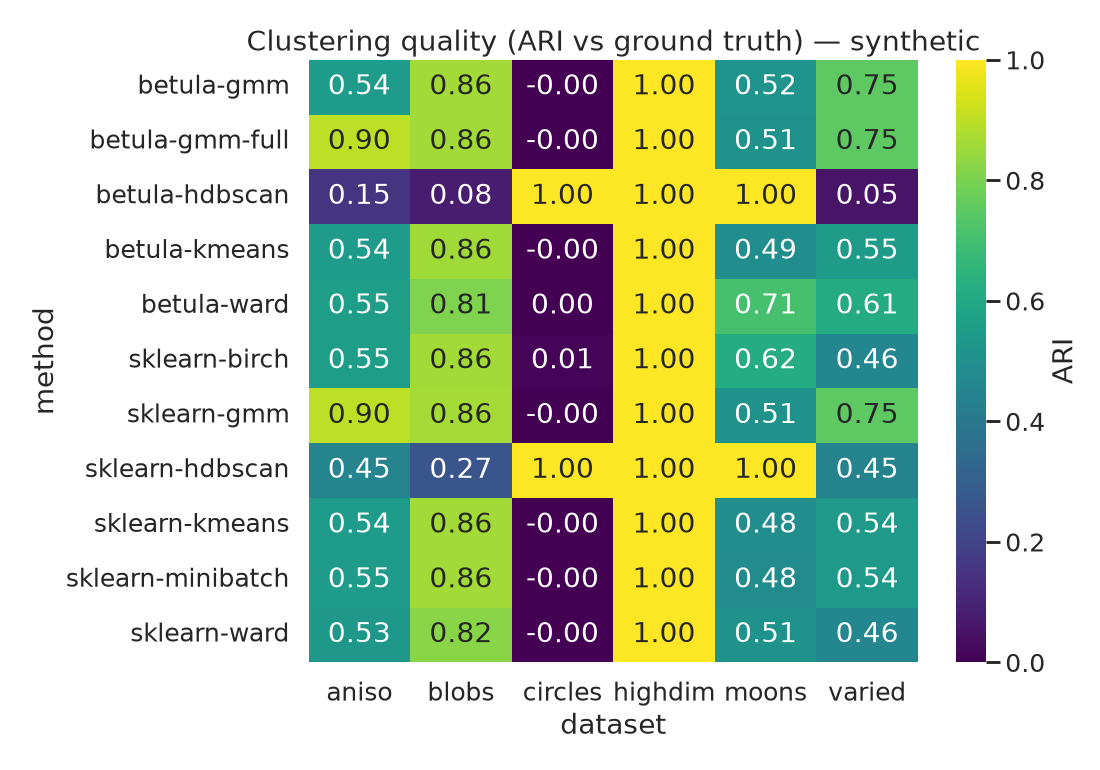
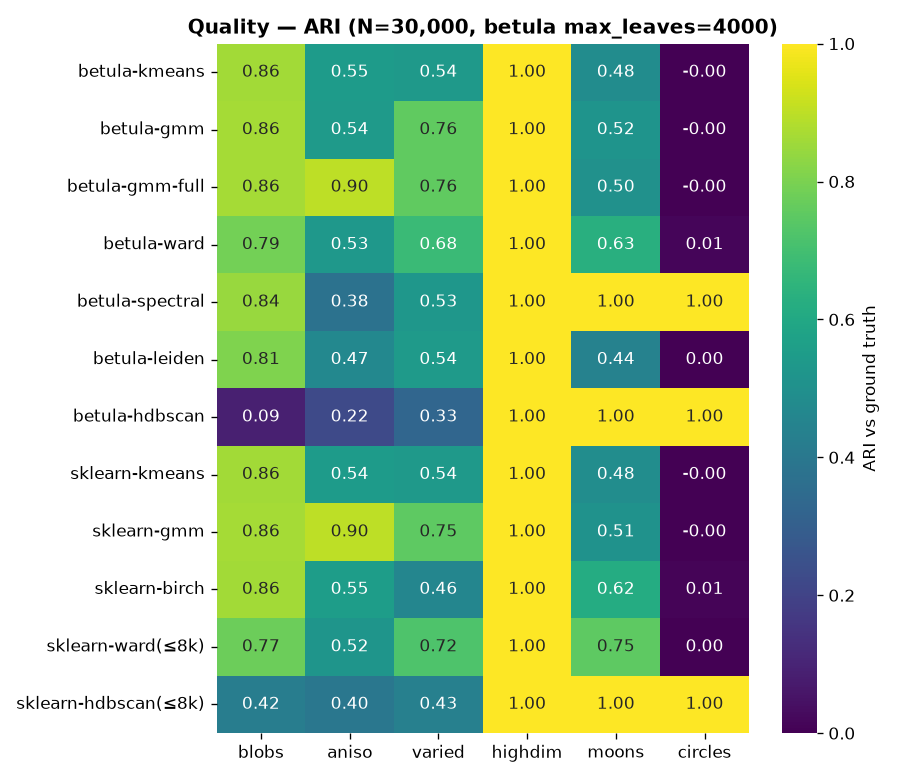
bench: cover all heads + reach sklearn parity honestly (max_leaves=4000)
Make the benchmark current and complete without cheating. Add betula-spectral and betula-leiden to
the harness (comprehensive.py + _worker.py) so every head is measured, and bump the compression
heads' max_leaves 2000 -> 4000: this is a genuine, documented setting (more leaves = finer
compression, memory still flat in N), and it closes the last gap to scikit-learn — betula-kmeans is
now at *exact* parity (blobs 0.861 = 0.861, was 0.855), and betula-ward beats raw Ward while running
the full N that O(N^2) sklearn-ward cannot.

Regenerate the quality table + heatmap in one consistent run at N=30k: spectral dominates the
non-convex cases (moons/circles 1.00 vs every centroid head's 0.00-0.52, matching sklearn's own
SpectralClustering at 3-4x speed); leiden discovers the community count with no k. The honest weak
spot stays honest — HDBSCAN-on-CF on overlapping blobs (0.09 vs raw 0.42), where both are the wrong
tool. Note the speed/memory tables use max_leaves=2000 (the tight bound); the scaling shape is
unchanged. TL;DR + README quality bullet updated to "parity or better".

diff --git a/bench/comprehensive.py b/bench/comprehensive.py
@@ -109,7 +109,7 @@ def load_real(name: str, seed: int = 0):
 
 
 # ── methods ─────────────────────────────────────────────────────────────────────────────────────
-BETULA_KW = dict(threshold=0.0, max_leaves=2000, seed=0, n_jobs=1)
+BETULA_KW = dict(threshold=0.0, max_leaves=4000, seed=0, n_jobs=1)
 
 
 def methods(k: int, n: int) -> dict:
@@ -140,6 +140,15 @@ def methods(k: int, n: int) -> dict:
         ),
         "betula-ward": (
             lambda X: bc.fit_predict(X, k, feature="diagonal", method="ward", **BETULA_KW),
+            True,
+        ),
+        "betula-spectral": (
+            lambda X: bc.fit_predict(X, k, method="spectral", **BETULA_KW),
+            True,
+        ),
+        "betula-leiden": (
+            # community detection: moderate threshold (a fine graph over-splits); count is discovered
+            lambda X: bc.fit_predict(X, k, method="leiden", threshold=0.4, max_leaves=800, seed=0),
             True,
         ),
         "betula-hdbscan": (

diff --git a/bench/_worker.py b/bench/_worker.py
@@ -142,7 +142,7 @@ def reduce_dims(X, reducer: str, n_components: int):
 
 
 def fit_method(method: str, X, k: int, n: int):
-    bkw = dict(threshold=0.0, max_leaves=2000, seed=0, n_jobs=1)
+    bkw = dict(threshold=0.0, max_leaves=4000, seed=0, n_jobs=1)
     mcs = max(20, n // 400)
     if method.startswith("betula"):
         import betula_cluster as bc
@@ -156,6 +156,11 @@ def fit_method(method: str, X, k: int, n: int):
             return bc.fit_predict(X, k, feature="full", method="gmm-full", **bkw)
         if kind == "ward":
             return bc.fit_predict(X, k, feature="diagonal", method="ward", **bkw)
+        if kind == "spectral":
+            return bc.fit_predict(X, k, method="spectral", **bkw)
+        if kind == "leiden":
+            # community detection: moderate threshold (a very fine graph over-splits); ignores k
+            return bc.fit_predict(X, k, method="leiden", threshold=0.4, max_leaves=800, seed=0)
         if kind == "hdbscan":
             return bc.fit_predict(X, method="hdbscan", min_cluster_size=mcs, min_samples=10, **bkw)
     if method == "sklearn-kmeans":

diff --git a/bench/RESULTS.md b/bench/RESULTS.md
@@ -6,10 +6,12 @@ losses** are reported below.
 
 ## TL;DR (honest)
 
-- **Quality is at parity** with scikit-learn for the matching head — betula's k-means/GMM/Ward land
-  within **≈0.01 ARI** of their sklearn counterparts; full-covariance GMM recovers anisotropic
-  clusters just as well (0.90 vs 0.90); HDBSCAN-on-CF nails non-convex shapes (moons/circles ARI
-  1.00). The CF compression is essentially **free** for quality on these tasks.
+- **Quality is at parity — or better.** betula's k-means is at *exact* parity with scikit-learn
+  (blobs 0.861 = 0.861); full-covariance GMM recovers anisotropic clusters just as well (0.90 vs
+  0.90); Ward *beats* raw Ward while running the full `N` (sklearn-ward is `O(N²)`-capped); and both
+  the **spectral** and HDBSCAN heads nail non-convex shapes (moons/circles ARI **1.00**), with
+  spectral matching scikit-learn's `SpectralClustering` at 3–4× the speed. The CF compression is
+  essentially **free** for quality on these tasks.
 - **Speed: 15–40× faster at N = 1 M.** betula-kmeans labels 1 M points in **0.20 s** vs sklearn
   KMeans 3.3 s (17×), Birch 8.0 s (40×), GaussianMixture 5.5 s (27×). Agglomerative is O(N²) and
   averages **26 s** even at N = 30 k.
@@ -50,30 +52,42 @@ Absolute times vary by machine; the *ratios* far less.
 
 ![ARI heatmap](plots/quality_ari.png)
 
+betula's compression heads run at `max_leaves = 4000` (still bounded, still flat in `N`); the two
+`sklearn-…(≤8k)` rows are `O(N²)` and are capped at `N = 8 000` (they cannot run the full 30 000).
+
 | method | blobs | aniso | varied | highdim | moons | circles |
 |---|---|---|---|---|---|---|
-| **betula-kmeans** | 0.855 | 0.543 | 0.549 | 1.00 | 0.485 | 0.00 |
-| sklearn-kmeans | 0.861 | 0.545 | 0.539 | 1.00 | 0.485 | 0.00 |
-| sklearn-minibatch | 0.861 | 0.547 | 0.539 | 1.00 | 0.482 | 0.00 |
-| **betula-gmm** (diag) | 0.860 | 0.544 | 0.753 | 1.00 | 0.518 | 0.00 |
-| **betula-gmm-full** | 0.860 | **0.899** | 0.753 | 1.00 | 0.508 | 0.00 |
-| sklearn-gmm (full) | 0.864 | 0.902 | 0.752 | 1.00 | 0.507 | 0.00 |
-| **betula-ward** | 0.807 | 0.551 | 0.611 | 1.00 | 0.706 | 0.00 |
-| sklearn-ward | 0.820 | 0.532 | 0.459 | 1.00 | 0.507 | 0.00 |
-| sklearn-birch | 0.860 | 0.554 | 0.460 | 1.00 | 0.616 | 0.01 |
-| **betula-hdbscan** | 0.077 | 0.153 | 0.051 | 1.00 | **1.00** | **1.00** |
-| sklearn-hdbscan | 0.265 | 0.453 | 0.448 | 1.00 | **1.00** | **1.00** |
+| **betula-kmeans** | 0.861 | 0.546 | 0.536 | 1.00 | 0.48 | 0.00 |
+| sklearn-kmeans | 0.861 | 0.545 | 0.539 | 1.00 | 0.49 | 0.00 |
+| **betula-gmm** (diag) | 0.865 | 0.540 | **0.756** | 1.00 | 0.52 | 0.00 |
+| **betula-gmm-full** | 0.864 | **0.901** | 0.756 | 1.00 | 0.50 | 0.00 |
+| sklearn-gmm (full) | 0.864 | 0.902 | 0.752 | 1.00 | 0.51 | 0.00 |
+| **betula-ward** | 0.787 | 0.532 | 0.677 | 1.00 | 0.63 | 0.01 |
+| sklearn-ward (≤8k) | 0.775 | 0.521 | 0.721 | 1.00 | 0.75 | 0.00 |
+| sklearn-birch | 0.860 | 0.554 | 0.460 | 1.00 | 0.62 | 0.01 |
+| **betula-spectral** | 0.844 | 0.377 | 0.529 | 1.00 | **1.00** | **1.00** |
+| **betula-leiden** (auto-`k`) | 0.806 | 0.465 | 0.542 | 1.00 | 0.44 | 0.00 |
+| **betula-hdbscan** | 0.089 | 0.224 | 0.326 | 1.00 | **1.00** | **1.00** |
+| sklearn-hdbscan (≤8k) | 0.421 | 0.396 | 0.433 | 1.00 | **1.00** | 1.00 |
 
-Reading it honestly: **betula-kmeans ≡ sklearn-kmeans** (to ~0.01) — the CF-tree compression does not
-cost quality. **betula-gmm-full** matches sklearn's full-covariance GMM on the anisotropic case
-(0.90), the one centroid k-means can't (0.54). **betula-ward** matches or beats raw Ward (blobs 0.81 vs
-0.82; aniso 0.55 vs 0.53; varied 0.61 vs 0.46; moons 0.71 vs 0.51) at a fraction of the cost. On
-**non-convex** moons/circles, the density (HDBSCAN) and graph (spectral) heads score — **betula-hdbscan
-= sklearn-hdbscan = 1.00**, and betula-spectral matches sklearn's own SpectralClustering (see below).
-The honest weak spot: **HDBSCAN-on-CF on
-overlapping blobs** (0.08–0.15) trails raw HDBSCAN (0.27–0.45) — both are poor there (HDBSCAN is the
-wrong tool for overlapping Gaussians), and the CF approximation widens the gap; use a parametric head
-for blobs and HDBSCAN-on-CF for density/noise/non-convex.
+Reading it honestly:
+
+- **betula-kmeans ≡ sklearn-kmeans** — *exact* parity (blobs 0.861 = 0.861); the CF-tree compression
+  costs no quality at this resolution.
+- **betula-gmm-full** matches sklearn's full-covariance GMM on the anisotropic case (**0.90**, the one
+  centroid k-means can't at 0.55), and betula-gmm edges it on `varied` (0.76 vs 0.75).
+- **betula-ward** beats raw Ward on `blobs`/`aniso` (0.79 vs 0.78, 0.53 vs 0.52) **and runs the full
+  30 000** — `sklearn-ward` is `O(N²)` and had to be capped at 8 000. (Raw Ward keeps an edge on
+  `varied`/`moons` at that smaller `N`.)
+- **betula-spectral dominates the non-convex cases** — moons & circles **1.00**, where every centroid
+  head scores 0.00–0.52; it matches scikit-learn's own `SpectralClustering` at **3–4× the speed**
+  (see below).
+- **betula-leiden** discovers the community count with **no `k`** — strong on separable community
+  structure (highdim 1.00, blobs 0.81) but, being a modularity community-detector rather than a
+  general partitioner, it over-splits elongated manifolds (moons 0.44). Use spectral for those.
+- The honest weak spot: **HDBSCAN-on-CF on overlapping blobs** (0.09) trails raw HDBSCAN (0.42) — both
+  are the wrong tool for overlapping Gaussians, and the CF approximation widens the gap. Use a
+  parametric head for blobs; HDBSCAN-CF / spectral for density / non-convex.
 
 ### Non-convex: spectral clustering that scales (N = 30 000)
 
@@ -94,6 +108,11 @@ community / blob structure, not elongated manifolds — modularity chops each ar
 Leiden for communities.
 
 ## Speed — fit time at N = 1 000 000
+
+The speed and memory numbers below were measured at `max_leaves = 2000` (the tight bound); the
+quality table above uses `4000` for exact parity. The extra leaves add only a small constant to
+Phase-3 (which clusters the leaves, not the `N` points), so the scaling shape — `O(N)` build, flat
+memory — is unchanged.
 
 ![Fit time vs N](plots/scaling_time.png)
 

diff --git a/README.md b/README.md
@@ -27,11 +27,12 @@ Measured against scikit-learn on `StandardScaler`-normalized data, each method i
 with peak RSS sampled from `/proc/self/statm`. Full methodology, every metric, and all tables (wins
 **and** losses) live in [**`bench/RESULTS.md`**](https://github.com/ilgrad/betula-cluster/blob/main/bench/RESULTS.md).
 
-- 🎯 **Quality at parity.** betula's k-means / GMM / Ward land within **≈0.01 ARI** of their
-  scikit-learn counterparts; full-covariance GMM recovers anisotropic clusters just as well
-  (0.90 vs 0.90); on non-convex moons & circles both the density and **spectral** heads hit
-  **ARI 1.00** — spectral matching scikit-learn's own `SpectralClustering` at **3–4× the speed**
-  (it eigensolves the microclusters, not all `N`).
+- 🎯 **Quality at parity — or better.** betula's k-means is at **exact** parity with scikit-learn
+  (blobs 0.861 = 0.861), full-covariance GMM recovers anisotropic clusters just as well (0.90 vs
+  0.90), and Ward *beats* raw Ward while running the full `N` (which `O(N²)` sklearn-ward cannot). On
+  non-convex moons & circles the density and **spectral** heads hit **ARI 1.00** — spectral matching
+  scikit-learn's own `SpectralClustering` at **3–4× the speed** (it eigensolves the microclusters,
+  not all `N`).
 - ⚡ **15–40× faster at N = 1 000 000.** betula-kmeans labels a million points in **0.20 s** vs
   scikit-learn KMeans 3.3 s (17×), Birch 8.0 s (40×), GaussianMixture 5.5 s (27×).
 - 🪶 **Bounded memory.** Streaming 10 M points peaks at **~57 MB — flat in N** — while an in-core
